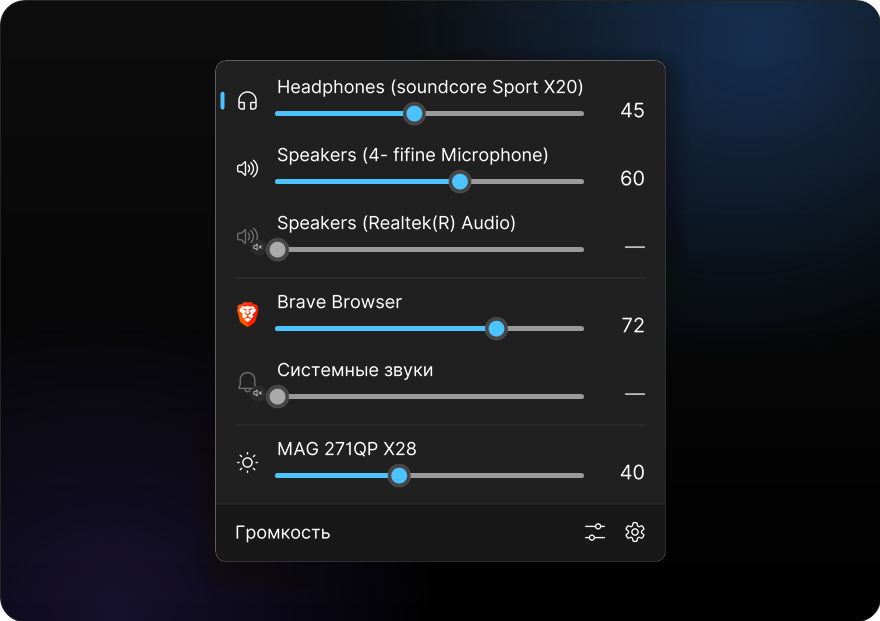
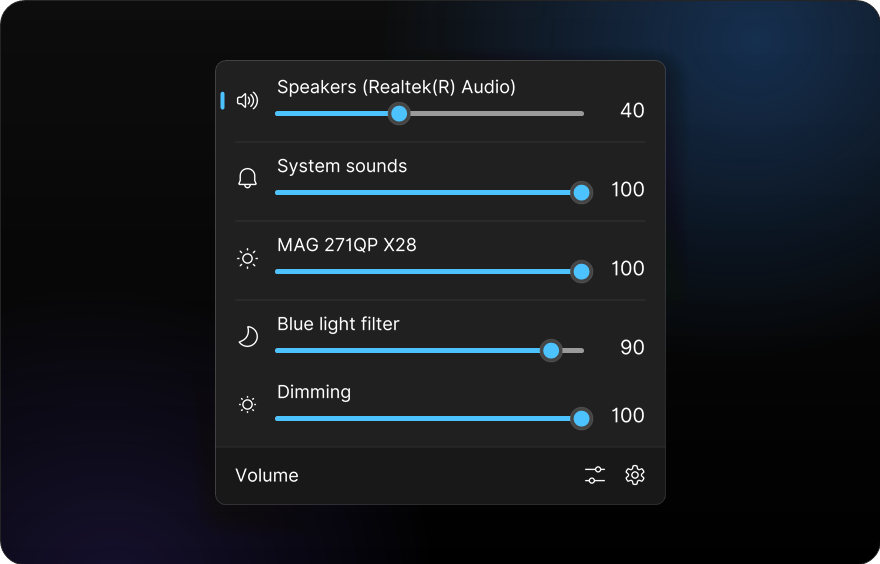
README: английский скриншот окна, русский — screenshot-ru.png (#7)

diff --git a/TrayMixer.cs b/TrayMixer.cs
@@ -219,6 +219,8 @@ namespace TrayMixer
     // ───────────────────────── Элементы окна ─────────────────────────
     enum Kind { Sep, Note, Row, Footer }
 
+    static class Loc { public static bool En; } // только для скриншота README: --render файл.png en
+
     class Item
     {
         public Kind K; public string Text, Key; public int Y, H;
@@ -395,18 +397,18 @@ namespace TrayMixer
             if (blue)
                 items.Add(new Item
                 {
-                    K = Kind.Row, Text = "Фильтр синего света", Key = "blue:filter", Glyph = Glyphs.Moon,
+                    K = Kind.Row, Text = Loc.En ? "Blue light filter" : "Фильтр синего света", Key = "blue:filter", Glyph = Glyphs.Moon,
                     GetVol = () => BlueLight.Strength / 100f, SetVol = v => BlueLight.SetStrength((int)Math.Round(v * 100)),
                     GetMute = () => !BlueLight.FilterOn, SetMute = m => BlueLight.SetFilterOn(!m)
                 });
             if (dim)
                 items.Add(new Item
                 {
-                    K = Kind.Row, Text = "Затемнение", Key = "blue:dim", Glyph = Glyphs.Dim,
+                    K = Kind.Row, Text = Loc.En ? "Dimming" : "Затемнение", Key = "blue:dim", Glyph = Glyphs.Dim,
                     GetVol = () => BlueLight.Dim / 100f, SetVol = v => BlueLight.SetDim((int)Math.Round(v * 100)),
                     GetMute = () => !BlueLight.DimOn, SetMute = m => BlueLight.SetDimOn(!m)
                 });
-            items.Add(new Item { K = Kind.Footer, Text = "Громкость" });
+            items.Add(new Item { K = Kind.Footer, Text = Loc.En ? "Volume" : "Громкость" });
 
             int y = S(6);
             foreach (var it in items)
@@ -885,6 +887,7 @@ namespace TrayMixer
             Native.SetProcessDPIAware();
             float scale; using (var g = Graphics.FromHwnd(IntPtr.Zero)) scale = g.DpiX / 96f;
             if (args.Length > 1 && args[0] == "--make-icon" && args[1].EndsWith(".ico", StringComparison.OrdinalIgnoreCase)) { Art.WriteIco(args[1]); return; }
+            if (args.Length > 2 && args[2] == "en") Loc.En = true; // скриншот для README на английском
             if (args.Length > 1 && args[0] == "--render" && args[1].EndsWith(".png", StringComparison.OrdinalIgnoreCase)) { var p = new Popup(Popup.Mica, scale); p.CreateControl(); p.RenderTo(args[1], Color.FromArgb(32, 32, 32)); return; }
             bool created;
             using (new Mutex(true, @"Local\TrayMixer_7c1f3e2a-5b0d-4f9e-9a61-2d8c4b7e1a90", out created))

diff --git a/Audio.cs b/Audio.cs
@@ -264,7 +264,7 @@ namespace TrayMixer
                     if (!map.TryGetValue(key, out a))
                     {
                         a = new AppInfo { Key = key, IsSystem = sys };
-                        if (sys) a.Name = "Системные звуки";
+                        if (sys) a.Name = TrayMixer.Loc.En ? "System sounds" : "Системные звуки";
                         else
                         {
                             string dn; s.GetDisplayName(out dn);

diff --git a/README.ru.md b/README.ru.md
@@ -12,7 +12,7 @@
 
 <br>
 
-<img src="assets/readme/screenshot.png" width="100%" alt="Окно TrayMixer: наушники, колонки, браузер и системные звуки на одном экране">
+<img src="assets/readme/screenshot-ru.png" width="100%" alt="Окно TrayMixer: наушники, колонки, браузер и системные звуки на одном экране">
 
 Стандартный микшер Windows 11 спрятан в «Параметрах», а значок громкости в трее меняет только одно устройство. **TrayMixer** — один клик по значку, и перед вами все наушники, колонки, мониторы и каждое приложение со своим ползунком. Без установки, без рекламы, без фоновой нагрузки.
 
